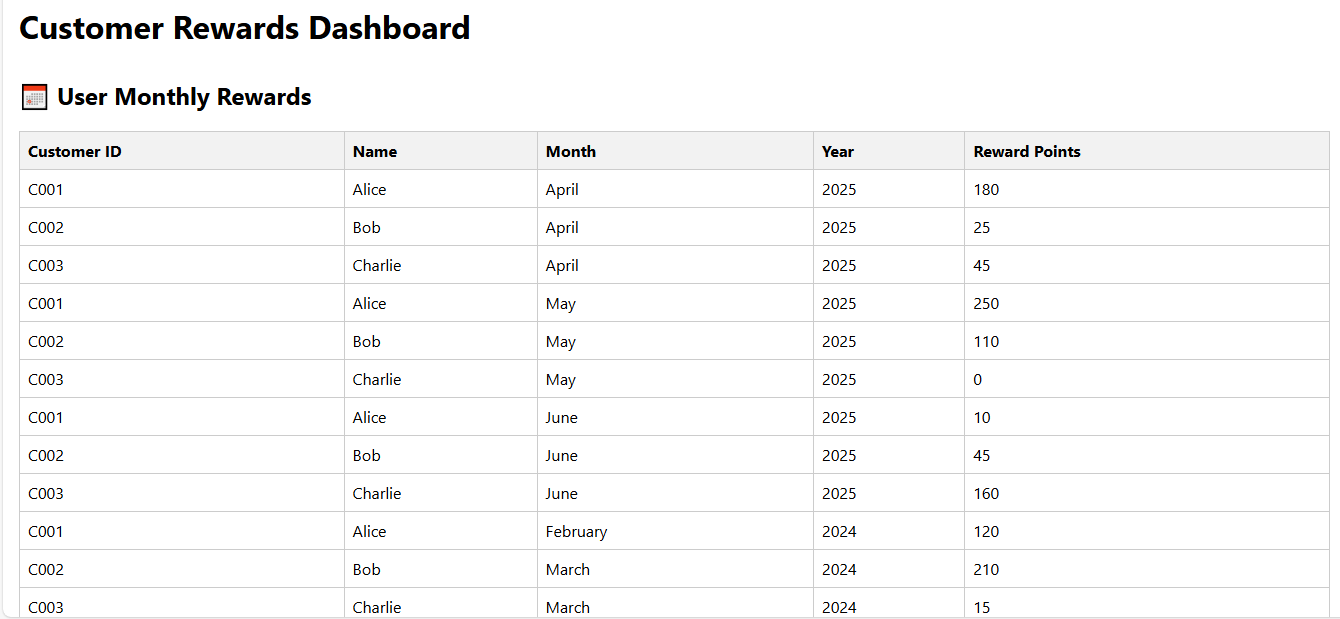
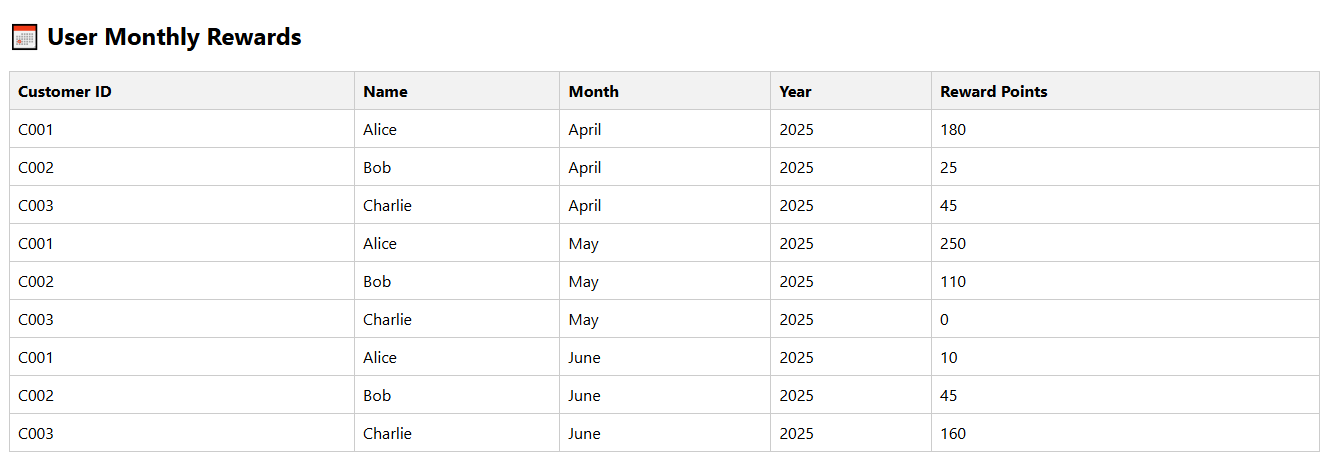
negative scenario added

diff --git a/src/App.jsx b/src/App.jsx
@@ -9,18 +9,25 @@ import {
 
 function App() {
   const [loading, setLoading] = useState(true);
+  const [error, setError] = useState('');
   const [rewards, setRewards] = useState(null);
   const [transactions, setTransactions] = useState([]);
   const [monthlySummary, setMonthlySummary] = useState([]);
 
   useEffect(() => {
-    getTransactions().then((txns) => {
-      setTransactions(txns);
-      const result = summarizeRewards(txns);
-      setRewards(result);
-      setMonthlySummary(summarizeMonthlyRewards(txns));
-      setLoading(false);
-    });
+    getTransactions()
+      .then((txns) => {
+        setTransactions(txns);
+        setRewards(summarizeRewards(txns));
+        setMonthlySummary(summarizeMonthlyRewards(txns));
+      })
+      .catch((err) => {
+        console.error('Failed to load transactions:', err);
+        setError('Failed to load dashboard data. Please try again later.');
+      })
+      .finally(() => {
+        setLoading(false);
+      });
   }, []);
 
   // Transform total monthly rewards for table
@@ -44,21 +51,23 @@ function App() {
 
   // Transform transactions with points for display
   const transactionsData = transactions.map((t) => ({
-    ID: t.id,
-    Customer: t.customer,
-    Date: new Date(t.date).toLocaleDateString(),
+    'Transaction ID': t.id,
+    'Customer Name': t.customer,
+    'Purchase Date': new Date(t.date).toLocaleDateString(),
     Product: t.product,
-    Amount: t.amount.toFixed(2),
+    Price: t.amount.toFixed(2),
     'Reward Points': calculatePoints(t.amount),
   }));
 
   return (
     <div style={{ padding: '1rem' }}>
-      <h1>Customer Rewards Dashboard</h1>
       {loading ? (
         <h2>Loading Dashboard data...</h2>
+      ) : error ? (
+        <h2 style={{ color: 'crimson' }}>{error}</h2>
       ) : (
         <>
+          <h1>Customer Rewards Dashboard</h1>
           <section style={{ marginTop: '2rem' }}>
             <h2>📅 User Monthly Rewards</h2>
             <DynamicTable
@@ -75,7 +84,14 @@ function App() {
           <section>
             <h2>🧾 Transactions</h2>
             <DynamicTable
-              columns={['ID', 'Customer', 'Date', 'Product', 'Amount', 'Reward Points']}
+              columns={[
+                'Transaction ID',
+                'Customer Name',
+                'Purchase Date',
+                'Product',
+                'Price',
+                'Reward Points',
+              ]}
               data={transactionsData}
             />
           </section>

diff --git a/src/App.test.jsx b/src/App.test.jsx
@@ -36,7 +36,7 @@ describe('App component', () => {
     render(<App />);
 
     // Check loading content (optional)
-    expect(screen.getByText('Customer Rewards Dashboard')).toBeInTheDocument();
+    expect(screen.getByText('Loading Dashboard data...')).toBeInTheDocument();
 
     await waitFor(() => {
       // All three table titles
@@ -47,17 +47,31 @@ describe('App component', () => {
 
     // Validate table rows exist
     expect(screen.getByText('C001')).toBeInTheDocument();
-    expect(screen.getAllByText("Alice").length).toBeGreaterThan(0);
+    expect(screen.getAllByText('Alice').length).toBeGreaterThan(0);
     expect(screen.getByText('TXN001')).toBeInTheDocument();
     expect(screen.getByText('Speaker')).toBeInTheDocument();
+  });
+
+  test('displays error message if data fails to load', async () => {
+    api.getTransactions.mockRejectedValueOnce(new Error('Network error'));
+
+    render(<App />);
+
+    // Expect loading initially
+    expect(screen.getByText('Loading Dashboard data...')).toBeInTheDocument();
+
+    // Wait for error to appear
+    await waitFor(() => {
+      expect(screen.getByText(/Failed to load dashboard data/i)).toBeInTheDocument();
+    });
   });
 
   test('calculates and displays correct reward points', async () => {
     render(<App />);
     await waitFor(() => {
       // 120 => 2*(20) + 50 = 90, 90 => 40
-      expect(screen.getAllByText("90").length).toBeGreaterThan(0);
-      expect(screen.getAllByText("40").length).toBeGreaterThan(0);
+      expect(screen.getAllByText('90').length).toBeGreaterThan(0);
+      expect(screen.getAllByText('40').length).toBeGreaterThan(0);
     });
   });
 });

diff --git a/README.md b/README.md
@@ -1,6 +1,6 @@
 # Rewards-app
 
-This project is used to show the dashboard related to transaction for different shopping by different customer and points accumulated after shopping after threshold amount.
+This Web app shows dashboard related to customers purchase and award points accumulated  based on recorded purchase. We used react.js 
 
 ## Available Scripts
 
@@ -41,7 +41,12 @@ Your app is ready to be deployed!
 
 ### `screen for transaction records of customers`
 
-![Transaction preview](./assets/transactions-list.png)
+![Transaction preview](./assets/transactions-preview.png)
+
+### `If data loading failed`
+
+![Fail to load preview](./assets/error-view.png)
+
 
 
 
